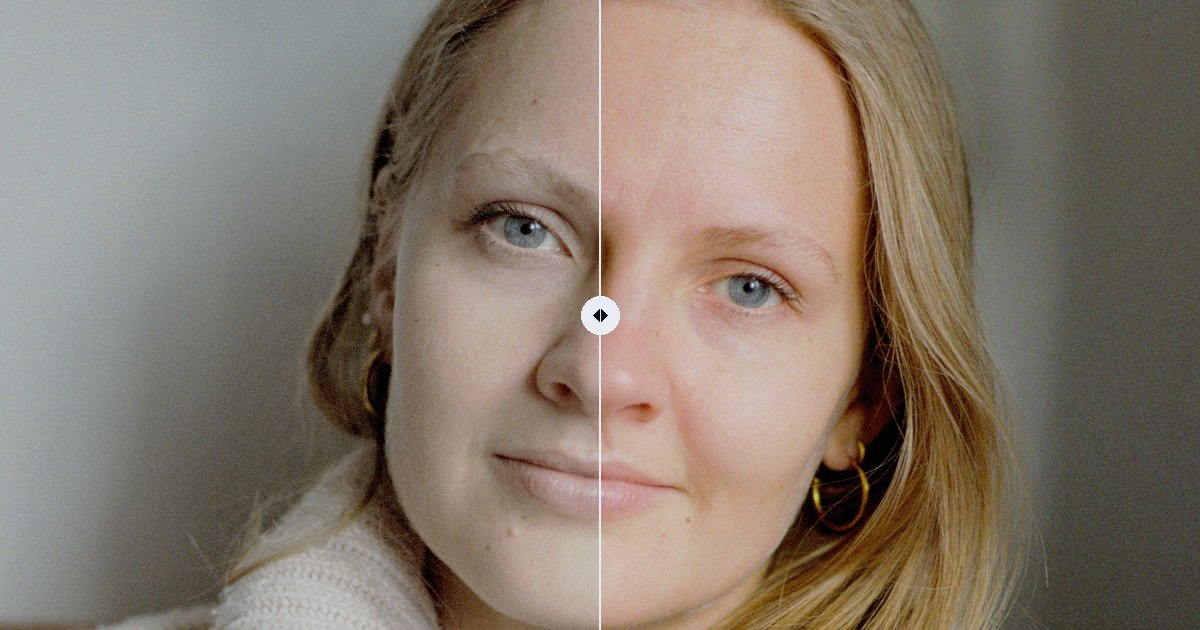
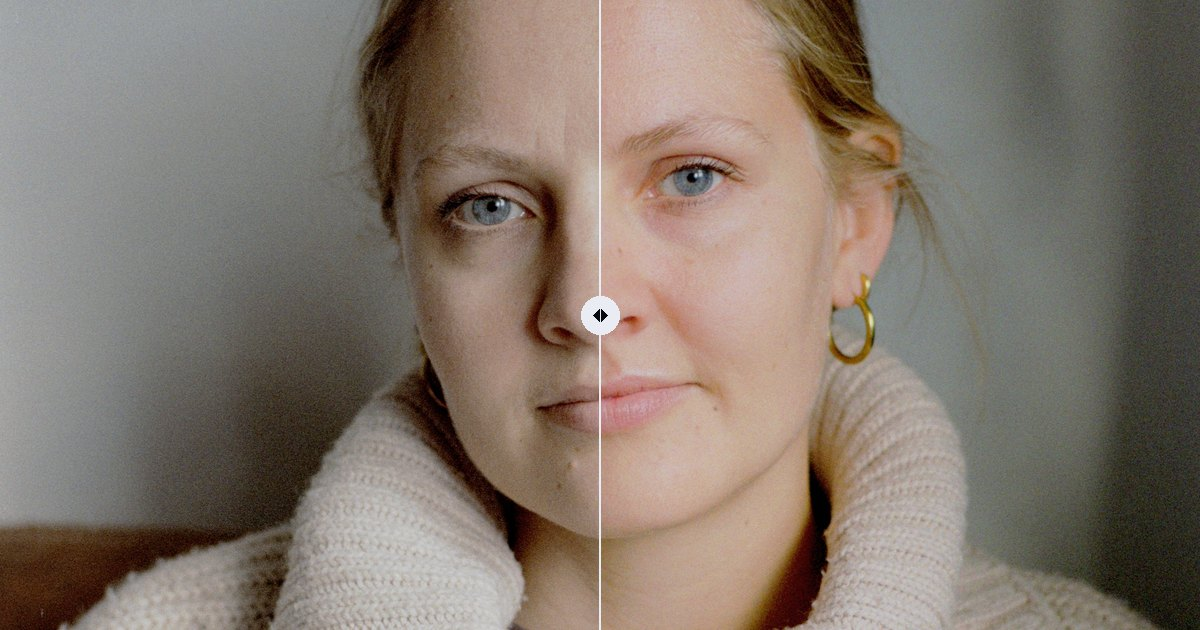
Article link preview: first portrait, split white light vs separate R, G, B

diff --git a/tools/light_comparison/build_figures.py b/tools/light_comparison/build_figures.py
@@ -161,29 +161,39 @@ def chart_bbox(img):
     return (x0 + x1) / 2, (y0 + y1) / 2, x1 - x0, y1 - y0, CF._homography(np.array(best['unit']), pts)
 
 
+def _edges(im):
+    x = np.asarray(im.convert('L'), np.float64); gy, gx = np.gradient(x); return np.hypot(gx, gy)
+
+
+def _phase(A, B):
+    h, w = min(A.shape[0], B.shape[0]), min(A.shape[1], B.shape[1])
+    win = np.outer(np.hanning(h), np.hanning(w))
+    A, B = (A[:h, :w] - A[:h, :w].mean()) * win, (B[:h, :w] - B[:h, :w].mean()) * win
+    R = np.fft.fft2(A) * np.conj(np.fft.fft2(B)); cc = np.fft.ifft2(R / (np.abs(R) + 1e-9)).real
+    y, x = np.unravel_index(np.argmax(cc), cc.shape)
+    return cc.max(), int(y if y < h / 2 else y - h), int(x if x < w / 2 else x - w)
+
+
+def register(a, b, q=4):
+    """Scale and shift mapping b onto a: (sc, dy, dx) with b resized by sc, then
+    b pixel = a pixel − (dy, dx). The two exports cover slightly different areas of film and
+    the white-light scans were made at ~3% higher magnification, so the scale is searched
+    (edge maps, Hann window, phase correlation on a q× reduction)."""
+    A = _edges(a.reduce(q)); bq = b.reduce(q)
+    best = None
+    for sc in np.arange(0.95, 1.0501, 0.0025):
+        pk, dy, dx = _phase(A, _edges(bq.resize((round(bq.width * sc), round(bq.height * sc)), Image.BILINEAR)))
+        if best is None or pk > best[0]:
+            best = (pk, sc, dy, dx)
+    return best[1], best[2] * q, best[3] * q
+
+
 def split_preview(k, framing, out, on_chart=False, where=None):
     a = Image.open(path('white', k)).convert('RGB')
     b = Image.open(path('trichrome', k)).convert('RGB')
-    if on_chart:      # the film sat slightly differently: match scale and shift on the chart region
-        cx, cy, cw, ch = chart_bbox(a)[:4]
-        hw, hh = 0.65 * cw, 0.65 * ch
-        ra = a.crop((round(cx - hw), round(cy - hh), round(cx + hw), round(cy + hh))).reduce(2)
-
-        def peak(sc):
-            rb = b.crop((round(cx - hw / sc), round(cy - hh / sc), round(cx + hw / sc), round(cy + hh / sc))).resize(ra.size, Image.BICUBIC)
-            x = np.asarray(ra.convert('L'), np.float64); y = np.asarray(rb.convert('L'), np.float64)
-            R = np.fft.fft2(x - x.mean()) * np.conj(np.fft.fft2(y - y.mean()))
-            return np.fft.ifft2(R / (np.abs(R) + 1e-9)).real.max()
-        sc = max(np.arange(0.97, 1.0301, 0.0025), key=peak)
-        # scale b about the chart centre, then measure the remaining shift on the chart region
-        b = b.transform(a.size, Image.AFFINE, (1 / sc, 0, cx - cx / sc, 0, 1 / sc, cy - cy / sc), Image.BICUBIC)
-        q = 2
-        box_r = (round(cx - hw), round(cy - hh), round(cx + hw), round(cy + hh))
-        dy, dx = shift(a.crop(box_r).reduce(q), b.crop(box_r).reduce(q)); dy, dx = dy * q, dx * q
-        print(f'  chart scale x{sc:.4f}')
-    else:
-        q = 4
-        dy, dx = shift(a.reduce(q), b.reduce(q)); dy, dx = dy * q, dx * q
+    sc, dy, dx = register(a, b)
+    b = b.resize((round(b.width * sc), round(b.height * sc)), Image.LANCZOS)
+    print(f'  {out}: scale x{sc:.4f}')
     # b pixel = a pixel − (dy, dx)
     cx, cy, bw = framing(a)
     inset = max(abs(dx), abs(dy)) + 8
@@ -203,8 +213,9 @@ def split_preview(k, framing, out, on_chart=False, where=None):
     print(out, 'registered by', (dy, dx), 'box', box)
 
 
-# portrait: full frame width, centred on the face (about 40% down the frame)
-split_preview(12, lambda im: (im.width / 2, 0.40 * im.height, im.width), 'og-portrait-split.jpg')
+# portrait: the first portrait (further away, more contrast), full frame width, centred 44%
+# down the frame so the sweater shows (Ben, 2026-10-31)
+split_preview(11, lambda im: (im.width / 2, 0.44 * im.height, im.width), 'og-portrait-split.jpg')
 # chart: the chart plus some of the scene around it, filling the frame
 split_preview(CHART_K, lambda im: (lambda c: (c[0], c[1], 1.3 * c[3] * 1200 / 630))(chart_bbox(im)),
               'og-chart-split.jpg', on_chart=True, where=EXTRA)        # the alternative, not used
